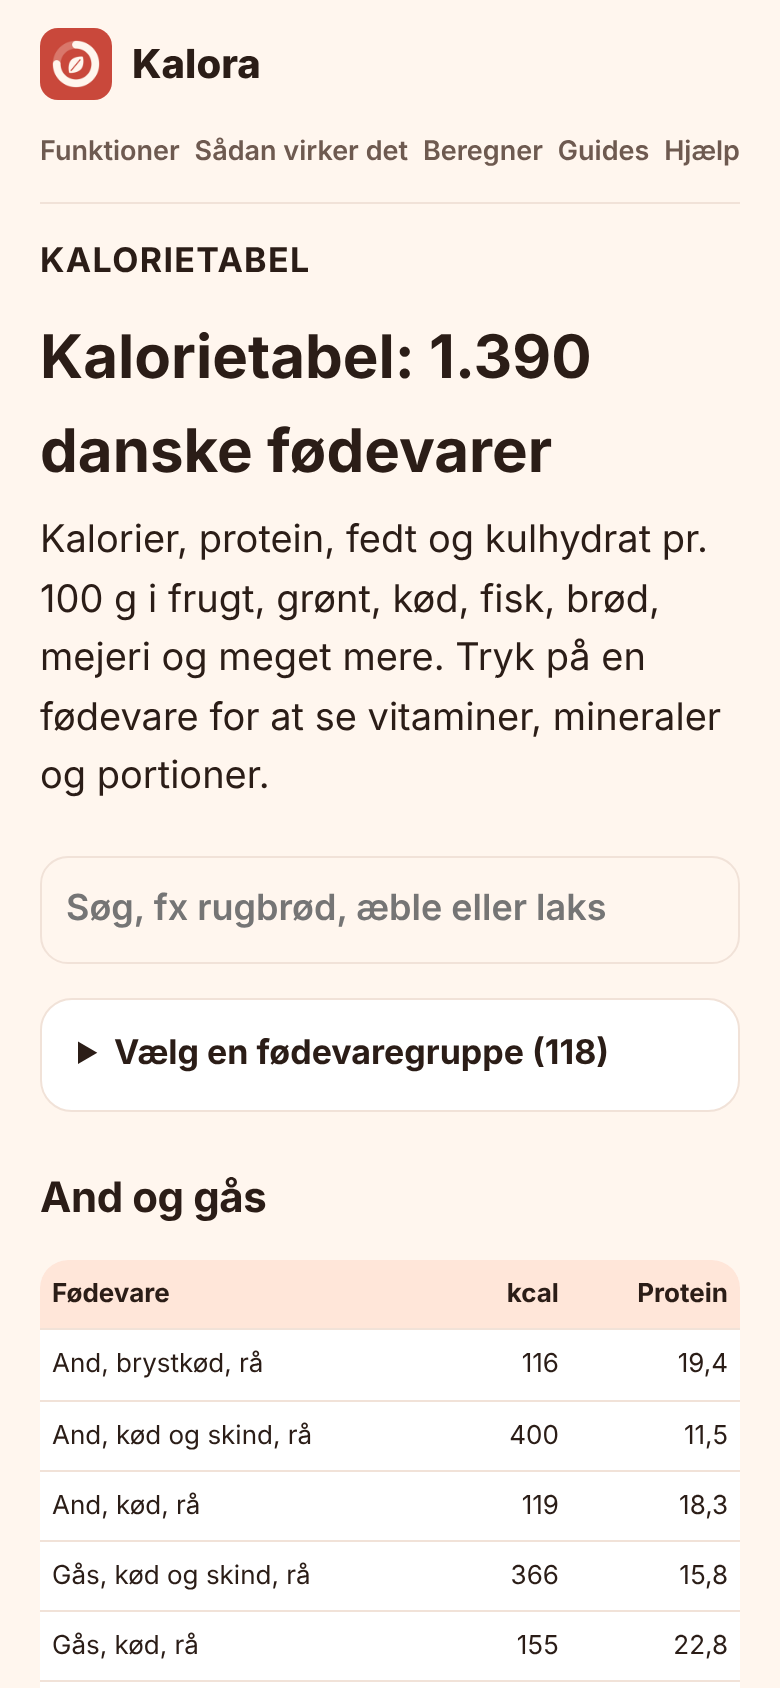
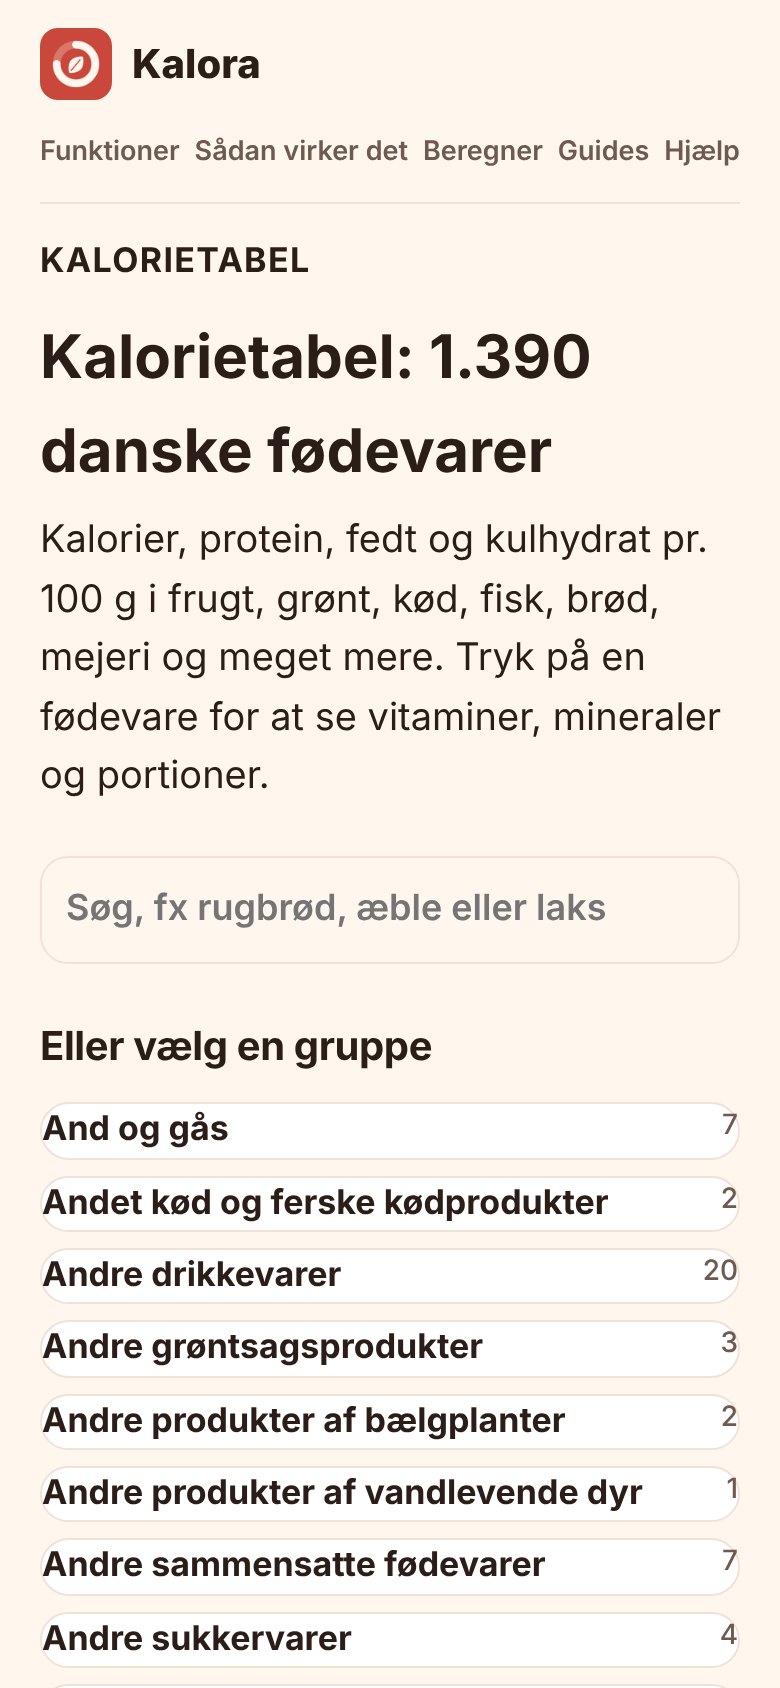
Preview 2
Claude-Session: https://claude.ai/code/session_01PCfvo3XvKrqjuYAsEroF54

Changed region(s): [[0.0615, 0.5853, 0.9538, 1.0], [0.9231, 0.6469, 0.9538, 0.6777]]

diff --git a/README.md b/README.md
@@ -1,6 +1,6 @@
-# Preview: kalorietabel og nye guides
+# Preview 2: kalorietabel og nye guides
 
-Ikke udgivet endnu.
+Ikke udgivet endnu. Tabellen er gemt væk: grupperne er lukket, og der er kun et lille link i bunden af siden.
 
 ## 1-kalorietabel-computer
 
@@ -13,6 +13,10 @@ Ikke udgivet endnu.
 ## 2b-kalorietabel-soegning
 
 ![](preview/2b-kalorietabel-soegning.png)
+
+## 2c-kalorietabel-grupper
+
+![](preview/2c-kalorietabel-grupper.png)
 
 ## 3-skyr-computer
 
@@ -33,4 +37,8 @@ Ikke udgivet endnu.
 ## 7-forside-guides
 
 ![](preview/7-forside-guides.png)
+
+## 8-bunden-med-link
+
+![](preview/8-bunden-med-link.png)
 
